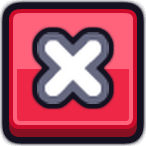
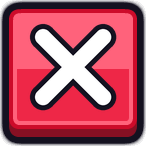
Store: remove top dragon showcase, taller Dragon Egg card with fitted buy buttons; auto-framed 3D dragon renders; clean close X; remove stray lamps in bot base
Claude-Session: https://claude.ai/code/session_01QBXJt8FujAYBNvGqHfCJbe

Changed region(s): [[0.1918, 0.1644, 0.8219, 0.7671]]

diff --git a/Assets/_Game/Scripts/UI/UIManager.cs b/Assets/_Game/Scripts/UI/UIManager.cs
@@ -403,70 +403,59 @@ namespace DragonHeist
             RectTransform body;
             var go = Modal(Loc.Ru ? "МАГАЗИН" : "STORE", new Color(0.2f, 0.45f, 1f), new Vector2(900, 620), out body);
             var content = UIKit.Scroll(body, new Vector2(0.5f, 0.5f), Vector2.zero, body.sizeDelta, false);
-            content.sizeDelta = new Vector2(body.sizeDelta.x, 1400);
+            content.sizeDelta = new Vector2(body.sizeDelta.x, 1100);
             float w = body.sizeDelta.x - 20;
 
-            // --- Витрина: 3 самых редких эксклюзивных дракона (3D-рендеры моделей) ---
-            var show = UIKit.Panel(content, "Showcase", new Vector2(0.5f, 1), new Vector2(0.5f, 1), new Vector2(0, -6), new Vector2(w, 310), new Color(0.5f, 0.22f, 0.9f), 3f);
-            show.gameObject.AddComponent<ShineSweep>();
-            UIKit.Label(UIKit.Rect(show.transform, "T", new Vector2(0.5f, 1), new Vector2(0.5f, 1), new Vector2(0, -6), new Vector2(w, 44)), Loc.Ru ? "ЭКСКЛЮЗИВНЫЕ ДРАКОНЫ" : "EXCLUSIVE DRAGONS", 34, new Color(1f, 0.92f, 0.5f));
-            var rare = new List<DragonDef>();
-            foreach (var d in GameConfig.Dragons) if (d.exclusive) rare.Add(d);
-            rare.Sort((a, b) => a.premiumChance.CompareTo(b.premiumChance));
-            for (int i = 0; i < 3 && i < rare.Count; i++)
-            {
-                var d = rare[i];
-                float x = (i - 1) * (w / 3f);
-                var tc = GameConfig.GetTier(d.tier).color;
-                var halo = UIKit.Icon(show.transform, UIKit.Circle, new Vector2(0.5f, 0.5f), new Vector2(x, 0), 210);
-                halo.color = new Color(tc.r, tc.g, tc.b, 0.45f);
-                halo.gameObject.AddComponent<PulseScale>();
-                var img = UIKit.Icon(show.transform, IconArt.Dragon(d), new Vector2(0.5f, 0.5f), new Vector2(x, 4), 240);
-                store3D.Add(new KeyValuePair<Image, DragonDef>(img, d));
-                UIKit.Label(UIKit.Rect(show.transform, "N" + i, new Vector2(0.5f, 0), new Vector2(0.5f, 0), new Vector2(x, 38), new Vector2(w / 3f - 10, 34)), Loc.DragonName(d), 22, Color.white);
-                var chip = UIKit.Panel(show.transform, "C" + i, new Vector2(0.5f, 0), new Vector2(0.5f, 0), new Vector2(x, 6), new Vector2(120, 30), i == 0 ? new Color(0.95f, 0.25f, 0.35f) : new Color(0.2f, 0.15f, 0.35f), 2f);
-                chip.raycastTarget = false;
-                UIKit.Label(chip.transform, d.premiumChance + "%", 20, Color.white);
-            }
-
-            // --- Драконье яйцо ---
-            var egg = UIKit.Panel(content, "DragonEgg", new Vector2(0.5f, 1), new Vector2(0.5f, 1), new Vector2(0, -326), new Vector2(w, 270), new Color(1f, 0.72f, 0.12f), 3f);
-            var eggIcon = UIKit.Icon(egg.transform, IconArt.Egg(Tier.Legendary, true), new Vector2(0, 0.5f), new Vector2(110, 10), 210);
+            // --- Драконье яйцо: слева яйцо, справа 6 эксклюзивов с шансами, снизу кнопки покупки ---
+            const float eggH = 330f;
+            var egg = UIKit.Panel(content, "DragonEgg", new Vector2(0.5f, 1), new Vector2(0.5f, 1), new Vector2(0, -6), new Vector2(w, eggH), new Color(1f, 0.72f, 0.12f), 3f);
+            egg.gameObject.AddComponent<ShineSweep>();
+            var eggIcon = UIKit.Icon(egg.transform, IconArt.Egg(Tier.Legendary, true), new Vector2(0, 0.5f), new Vector2(118, -6), 220);
             eggIcon.gameObject.AddComponent<TitleWobble>();
-            var nw = UIKit.Panel(egg.transform, "New", new Vector2(0, 1), new Vector2(0, 1), new Vector2(10, -8), new Vector2(110, 40), new Color(0.9f, 0.2f, 0.2f), 3f);
+            var nw = UIKit.Panel(egg.transform, "New", new Vector2(0, 1), new Vector2(0, 1), new Vector2(12, -10), new Vector2(110, 40), new Color(0.9f, 0.2f, 0.2f), 3f);
             UIKit.Label(nw.transform, "NEW!", 22, Color.white);
             if (UIKit.ApplySkin(nw, "badge_new", false)) { nw.type = Image.Type.Simple; nw.preserveAspect = true; UIKit.HideLabels(nw.transform); }
-            UIKit.Label(UIKit.Rect(egg.transform, "T", new Vector2(0.5f, 1), new Vector2(0.5f, 1), new Vector2(90, -6), new Vector2(600, 40)), Loc.Ru ? "ДРАКОНЬЕ ЯЙЦО" : "DRAGON EGG", 32, new Color(1f, 0.95f, 0.8f));
-            int k = 0;
-            foreach (var d in GameConfig.Dragons)
+            // правая часть карточки (справа от яйца)
+            float left = -w / 2f + 240f, right = w / 2f - 16f, avail = right - left;
+            UIKit.Label(UIKit.Rect(egg.transform, "T", new Vector2(0.5f, 1), new Vector2(0.5f, 1), new Vector2((left + right) / 2f, -8), new Vector2(avail, 44)), Loc.Ru ? "ДРАКОНЬЕ ЯЙЦО" : "DRAGON EGG", 34, new Color(1f, 0.97f, 0.85f));
+            var ex = new List<DragonDef>();
+            foreach (var d in GameConfig.Dragons) if (d.exclusive) ex.Add(d);
+            float cwx = avail / ex.Count;
+            for (int k = 0; k < ex.Count; k++)
             {
-                if (!d.exclusive) continue;
-                var c = UIKit.Panel(egg.transform, "X" + k, new Vector2(0.5f, 1), new Vector2(0.5f, 1), new Vector2(-120 + k * 96, -52), new Vector2(88, 96), new Color(d.body.r * 0.5f, d.body.g * 0.5f, d.body.b * 0.5f, 1f), 2f);
-                var xi = UIKit.Icon(c.transform, IconArt.Dragon(d), new Vector2(0.5f, 0.5f), new Vector2(0, 8), 104);
+                var d = ex[k];
+                var tc = GameConfig.GetTier(d.tier).color;
+                var c = UIKit.Panel(egg.transform, "X" + k, new Vector2(0.5f, 1), new Vector2(0.5f, 1), new Vector2(left + cwx * (k + 0.5f), -58), new Vector2(cwx - 8, 124),
+                    new Color(0.18f, 0.12f, 0.32f, 0.92f), 2f);
+                var glow = UIKit.Icon(c.transform, UIKit.Circle, new Vector2(0.5f, 0.5f), new Vector2(0, 10), cwx - 20);
+                glow.color = new Color(tc.r, tc.g, tc.b, 0.35f);
+                var xi = UIKit.Icon(c.transform, IconArt.Dragon(d), new Vector2(0.5f, 0.5f), new Vector2(0, 12), Mathf.Min(cwx - 10, 110));
                 store3D.Add(new KeyValuePair<Image, DragonDef>(xi, d));
-                UIKit.Label(UIKit.Rect(c.transform, "P", new Vector2(1, 0), new Vector2(1, 0), new Vector2(-2, 2), new Vector2(60, 26)), d.premiumChance + "%", 17, Color.white, TextAnchor.LowerRight);
-                k++;
+                var chip = UIKit.Panel(c.transform, "P", new Vector2(0.5f, 0), new Vector2(0.5f, 0), new Vector2(0, 4), new Vector2(cwx - 22, 26), k == ex.Count - 1 ? new Color(0.95f, 0.25f, 0.35f) : new Color(0.1f, 0.08f, 0.2f, 0.9f), 2f);
+                chip.raycastTarget = false;
+                UIKit.Label(chip.transform, d.premiumChance + "%", 17, Color.white);
             }
             string[] ids = { "dragon_egg_1", "dragon_egg_3", "dragon_egg_10" };
             string[] labels = Loc.Ru ? new[] { "1 ЯЙЦО", "3 ЯЙЦА", "10 ЯИЦ" } : new[] { "1 EGG", "3 EGGS", "10 EGGS" };
             Color[] bc = { new Color(0.25f, 0.8f, 0.3f), new Color(1f, 0.6f, 0.1f), new Color(0.85f, 0.3f, 0.95f) };
+            float bw = avail / 3f;
             for (int i = 0; i < 3; i++)
             {
-                float x = -110 + i * 200;
-                UIKit.Label(UIKit.Rect(egg.transform, "L" + i, new Vector2(0.5f, 0), new Vector2(0.5f, 0), new Vector2(x + 90, 72), new Vector2(190, 26)), labels[i], 17, Color.white);
-                YanBuy(egg.transform, ids[i], new Vector2(0.5f, 0), new Vector2(x + 90, 38), new Vector2(180, 54), bc[i], 22);
+                float x = left + bw * (i + 0.5f);
+                UIKit.Label(UIKit.Rect(egg.transform, "L" + i, new Vector2(0.5f, 0), new Vector2(0.5f, 0), new Vector2(x, 100), new Vector2(bw, 28)), labels[i], 20, Color.white);
+                YanBuy(egg.transform, ids[i], new Vector2(0.5f, 0), new Vector2(x, 54), new Vector2(bw - 18, 60), bc[i], 24);
             }
 
             // --- x2 Доход и x2 Рост ---
             float half = (w - 12) / 2f;
-            var inc = UIKit.Panel(content, "X2Income", new Vector2(0.5f, 1), new Vector2(0.5f, 1), new Vector2(-half / 2f - 6, -610), new Vector2(half, 200), new Color(1f, 0.85f, 0.2f), 3f);
+            var inc = UIKit.Panel(content, "X2Income", new Vector2(0.5f, 1), new Vector2(0.5f, 1), new Vector2(-half / 2f - 6, -350), new Vector2(half, 200), new Color(1f, 0.85f, 0.2f), 3f);
             UIKit.Icon(inc.transform, Icons.Coin, new Vector2(0, 0.5f), new Vector2(64, 14), 110);
             UIKit.Icon(inc.transform, Icons.Coin, new Vector2(0, 0.5f), new Vector2(100, -10), 110);
             X2Badge(inc.transform, new Vector2(150, -40));
             ArtOverlay(inc.transform, "store_x2_income", new Vector2(100, 0), 170);
             UIKit.Label(UIKit.Rect(inc.transform, "T", new Vector2(1, 1), new Vector2(1, 1), new Vector2(-14, -12), new Vector2(250, 50)), Loc.Ru ? "x2 Доход" : "x2 Income", 32, Color.white, TextAnchor.MiddleRight);
             YanBuy(inc.transform, "x2_income", new Vector2(1, 0), new Vector2(-110, 50), new Vector2(190, 62), new Color(0.25f, 0.8f, 0.3f), 24);
-            var gr = UIKit.Panel(content, "X2Grow", new Vector2(0.5f, 1), new Vector2(0.5f, 1), new Vector2(half / 2f + 6, -610), new Vector2(half, 200), new Color(0.4f, 0.85f, 0.95f), 3f);
+            var gr = UIKit.Panel(content, "X2Grow", new Vector2(0.5f, 1), new Vector2(0.5f, 1), new Vector2(half / 2f + 6, -350), new Vector2(half, 200), new Color(0.4f, 0.85f, 0.95f), 3f);
             UIKit.Icon(gr.transform, IconArt.Egg(Tier.Rare), new Vector2(0, 0.5f), new Vector2(84, 6), 150);
             X2Badge(gr.transform, new Vector2(150, -40));
             ArtOverlay(gr.transform, "store_x2_grow", new Vector2(100, 0), 170);
@@ -480,7 +469,7 @@ namespace DragonHeist
             {
                 if (pd.id.StartsWith("dragon_egg") || pd.id == "x2_income" || pd.id == "x2_grow") continue;
                 int col = idx % 4, row = idx / 4;
-                var card = UIKit.Panel(content, "P" + pd.id, new Vector2(0.5f, 1), new Vector2(0.5f, 1), new Vector2((col - 1.5f) * (cw + 12), -826 - row * (ch + 12)), new Vector2(cw, ch),
+                var card = UIKit.Panel(content, "P" + pd.id, new Vector2(0.5f, 1), new Vector2(0.5f, 1), new Vector2((col - 1.5f) * (cw + 12), -566 - row * (ch + 12)), new Vector2(cw, ch),
                     new Color(pd.color.r * 0.5f, pd.color.g * 0.5f, pd.color.b * 0.5f, 1f), 3f);
                 var icon = pd.kind == ProductKind.Coins ? Icons.Coin : pd.kind == ProductKind.Speed ? Icons.Bolt : pd.kind == ProductKind.Egg ? Icons.Egg : Icons.Star;
                 UIKit.Icon(card.transform, icon, new Vector2(0.5f, 1), new Vector2(0, -52), 78);

diff --git a/Assets/_Game/Scripts/UI/ModelRenderer.cs b/Assets/_Game/Scripts/UI/ModelRenderer.cs
@@ -70,7 +70,7 @@ namespace DragonHeist
             try
             {
                 var model = Blocky.BuildDragon(null, d);
-                s = Render(model, 5.6f + Mathf.Min((int)d.tier, 11) * 0.35f, new Vector3(0, 2f, 0), 35f);
+                s = Render(model, 35f);
             }
             catch (System.Exception e)
             {
@@ -81,16 +81,31 @@ namespace DragonHeist
             return s;
         }
 
-        static Sprite Render(GameObject model, float distance, Vector3 focus, float yaw)
+        /// <summary>Рендер модели целиком: камера сама подбирает расстояние по габаритам (крылья, хвост, корона — всё в кадре).</summary>
+        static Sprite Render(GameObject model, float yaw)
         {
             Ensure();
             foreach (var ps in model.GetComponentsInChildren<ParticleSystem>()) ps.gameObject.SetActive(false);
             foreach (var mb in model.GetComponentsInChildren<MonoBehaviour>()) mb.enabled = false;
             model.transform.position = Studio;
             model.transform.rotation = Quaternion.Euler(0, 180f + yaw, 0);
-            Vector3 f = Studio + focus;
-            cam.transform.position = f + new Vector3(distance * 0.25f, distance * 0.3f, -distance);
-            cam.transform.LookAt(f);
+
+            // габариты всех видимых частей (без частиц и прозрачных квадов-нимбов)
+            bool has = false;
+            var b = new Bounds(Studio, Vector3.zero);
+            foreach (var r in model.GetComponentsInChildren<MeshRenderer>())
+            {
+                if (!r.gameObject.activeInHierarchy) continue;
+                if (!has) { b = r.bounds; has = true; } else b.Encapsulate(r.bounds);
+            }
+            if (!has) b = new Bounds(Studio + Vector3.up * 2f, Vector3.one * 4f);
+            float radius = b.extents.magnitude;
+            float dist = radius / Mathf.Sin(cam.fieldOfView * 0.5f * Mathf.Deg2Rad) * 1.02f;
+            Vector3 dir = new Vector3(0.25f, 0.3f, -1f).normalized;
+            cam.transform.position = b.center + dir * dist;
+            cam.transform.LookAt(b.center);
+            cam.nearClipPlane = Mathf.Max(0.1f, dist - radius * 2f);
+            cam.farClipPlane = dist + radius * 2f;
 
             bool fog = RenderSettings.fog;
             RenderSettings.fog = false;

diff --git a/Assets/_Game/Scripts/World/WorldBuilder.cs b/Assets/_Game/Scripts/World/WorldBuilder.cs
@@ -131,7 +131,6 @@ namespace DragonHeist
             SpawnBoards();
             BotPlayer.SpawnAll(dynamicRoot, BotHomes, BotEntrances, BotPlots);
 
-            for (int i = 0; i < 3; i++) Lamp(new Vector3(-bx + 2f, 0, -44f + i * 8f));
             FlowerBed(new Vector3(-12f, 0.6f, 5f), 8f, 1.6f);
             FlowerBed(new Vector3(12f, 0.6f, 5f), 8f, 1.6f);
         }
